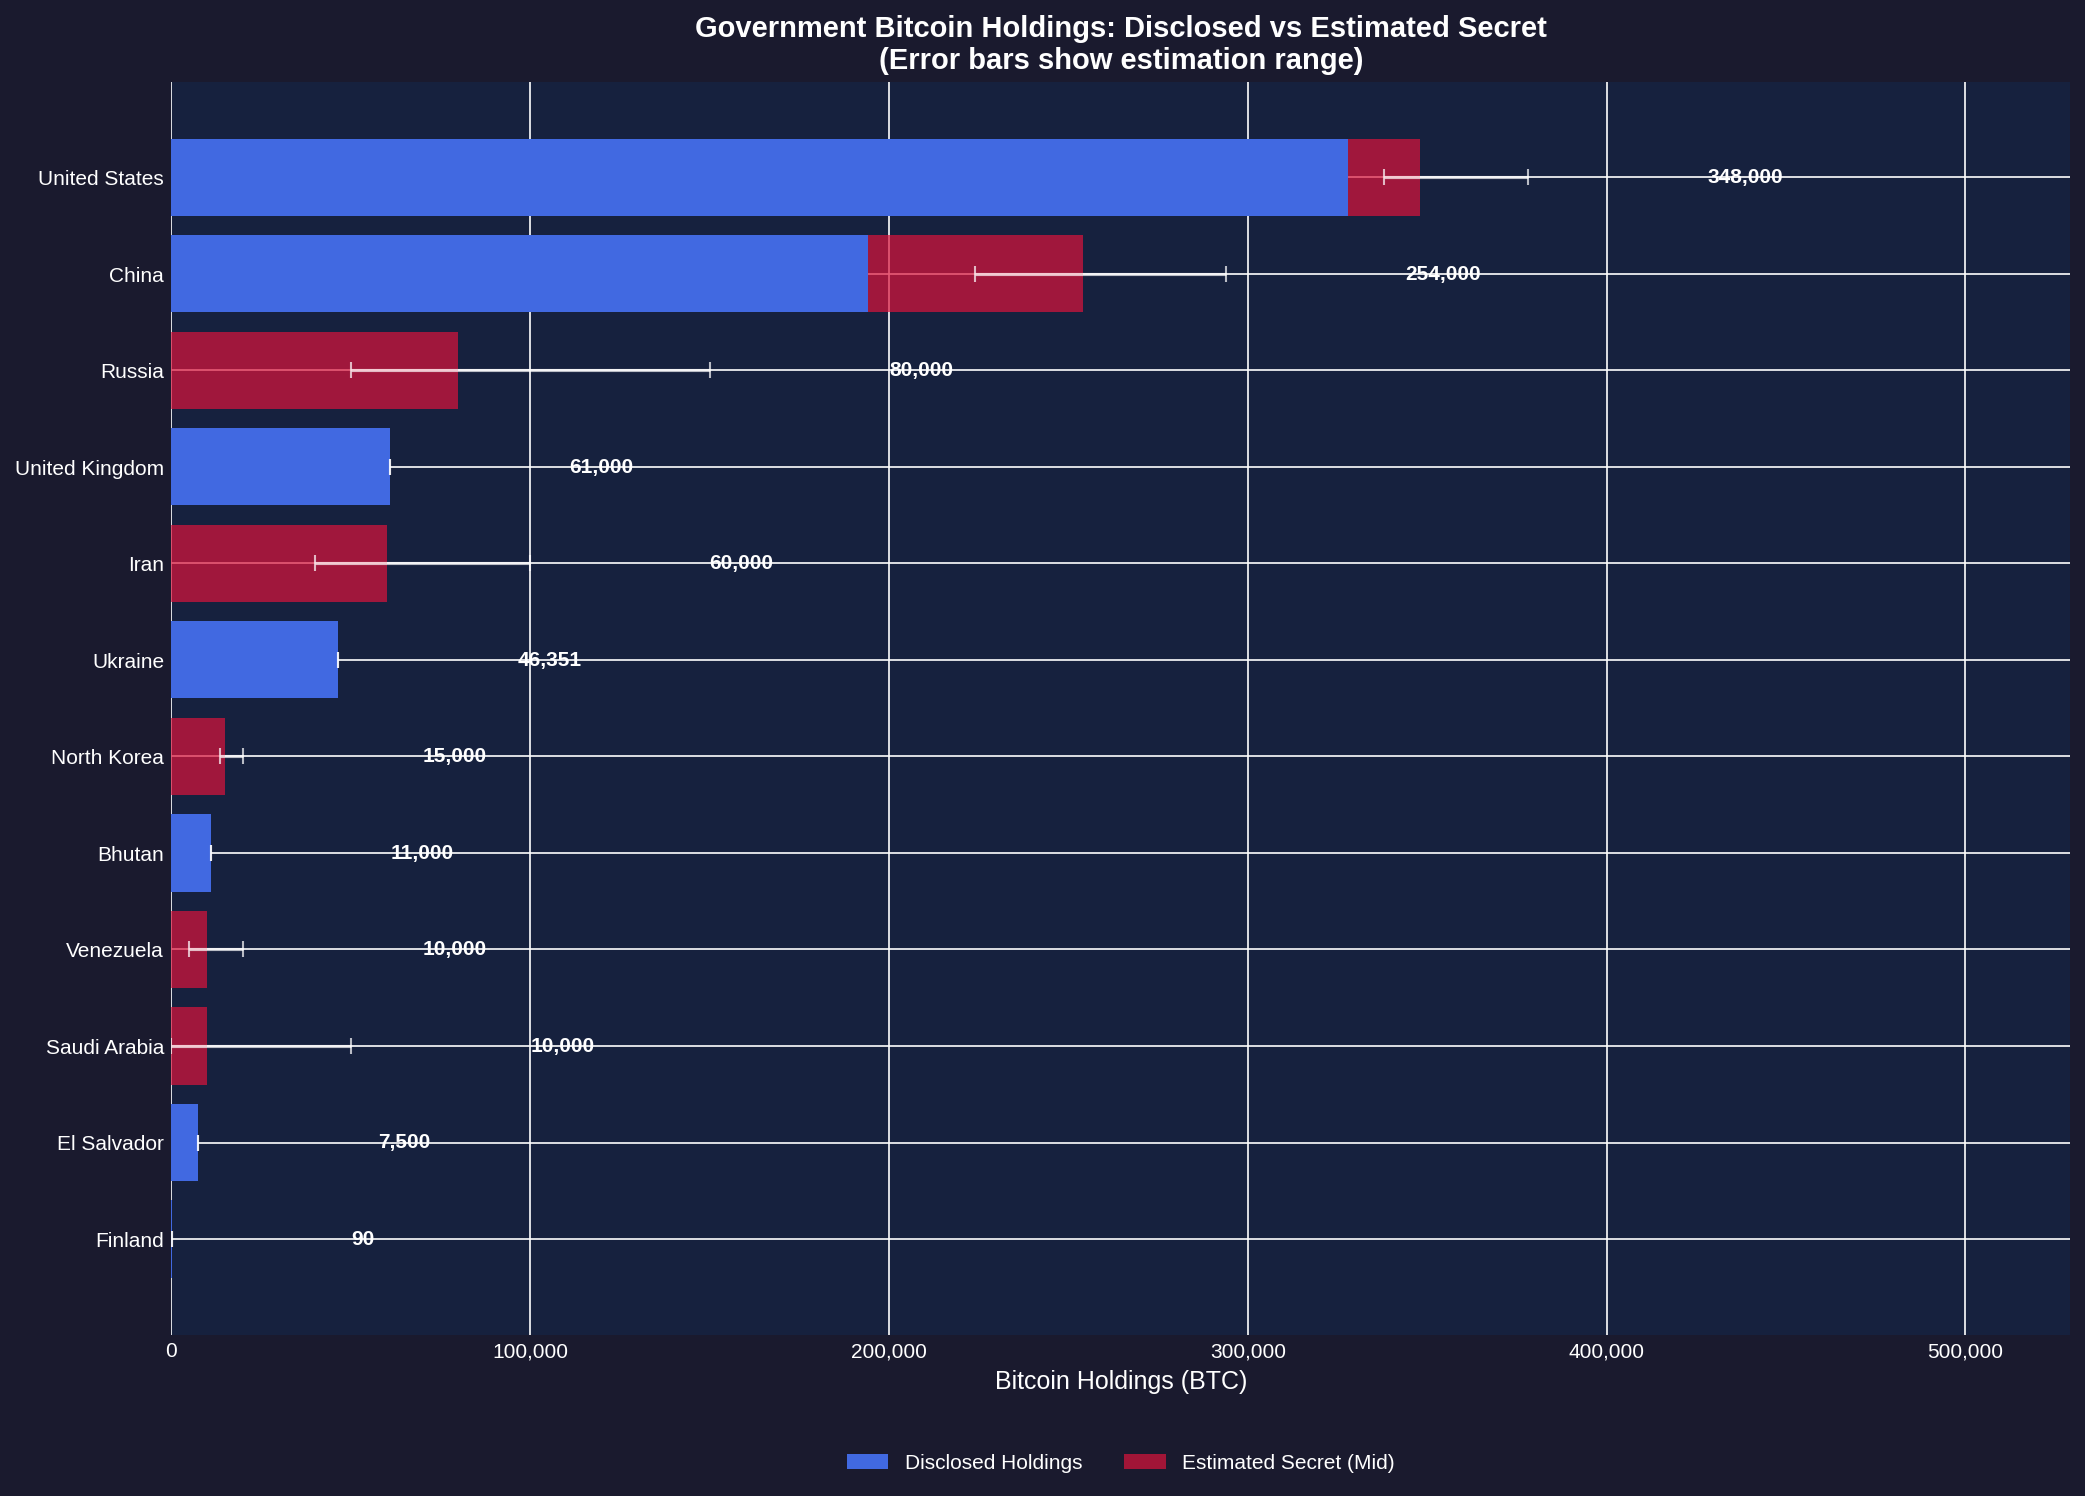
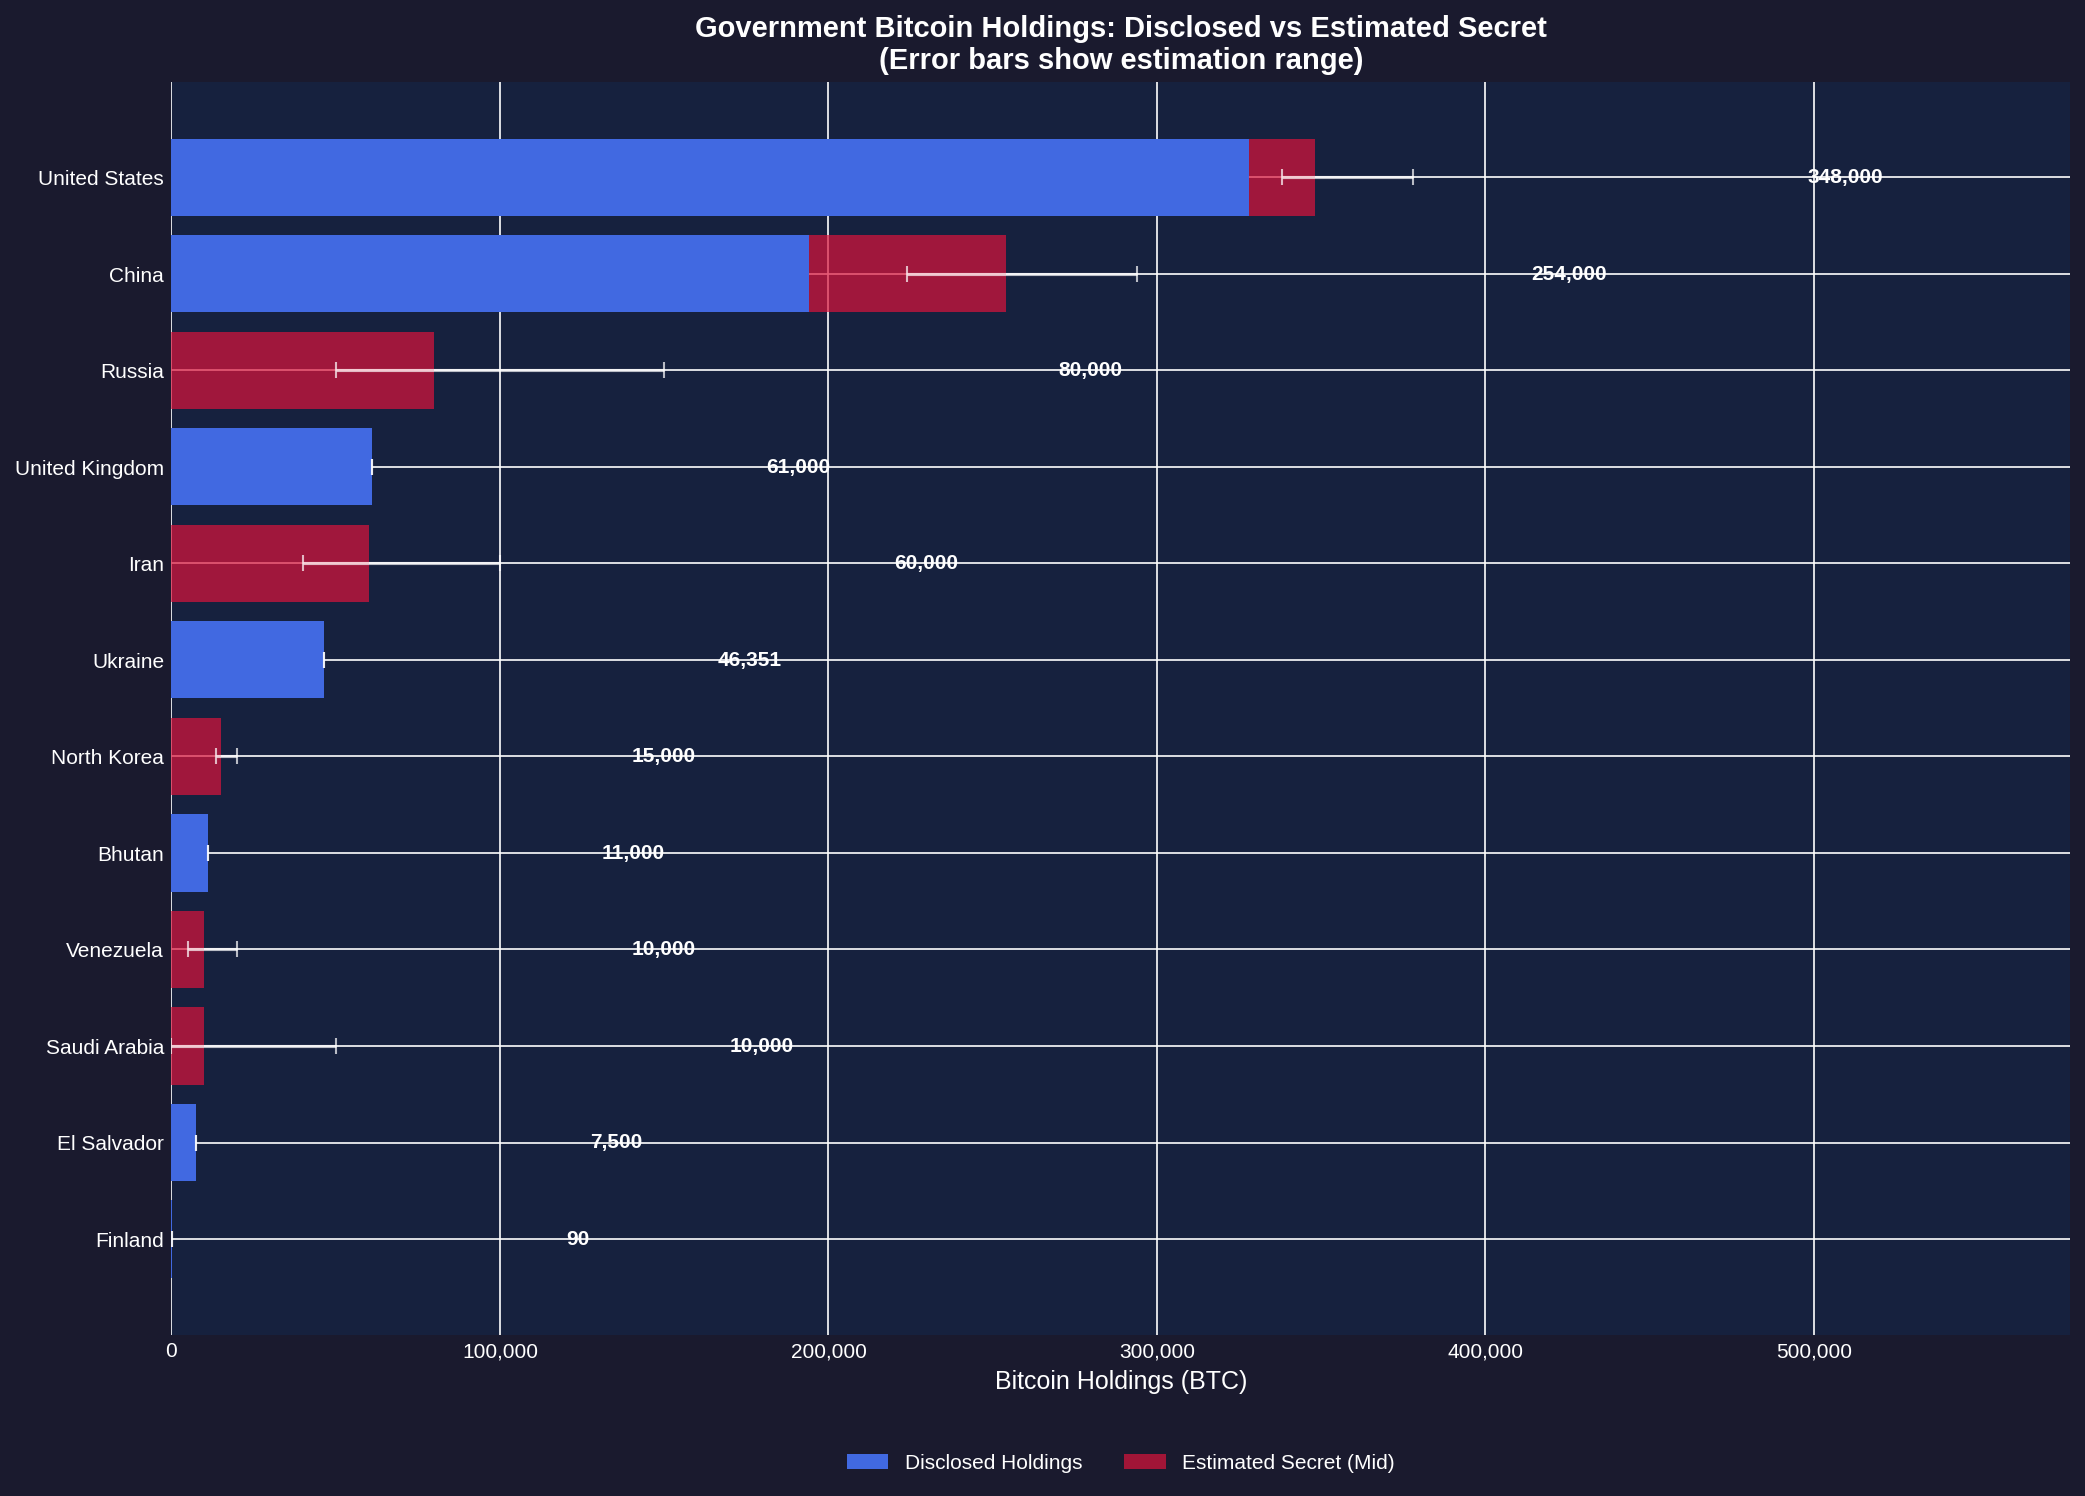
Fix graph label visibility - position labels beyond error bars
- Government holdings: offset increased from +50K to +120K BTC
- X-axis limit: max_total + 200K (fixed offset, not multiplier)
- Labels should now be clearly separated from error bars

https://claude.ai/code/session_01Vh1HuXmVpiFcfU4g9MUR6D

diff --git a/visualizations/generate_visualizations.py b/visualizations/generate_visualizations.py
@@ -237,12 +237,12 @@ def create_government_holdings_chart(government_data):
 
     # Calculate max extent for x-axis limit
     max_total = max([d + h for d, h in zip(disclosed_btc, secret_btc_high)])
-    ax.set_xlim(0, max_total * 1.4)  # Extend x-axis for labels
+    ax.set_xlim(0, max_total + 200000)  # Extend x-axis significantly for labels
 
     # Add value labels - position well beyond error bars
     for i, (d, s, s_high) in enumerate(zip(disclosed_btc, secret_btc_mid, secret_btc_high)):
         total = d + s
-        max_extent = d + s_high + 50000  # Position label well beyond error bar
+        max_extent = d + s_high + 120000  # Position label far beyond error bar
         if total > 0:
             ax.text(max_extent, i, f'{total:,.0f}', va='center', color='white', fontsize=10, fontweight='bold')
 

diff --git a/visualizations/generate_visualizations_bw.py b/visualizations/generate_visualizations_bw.py
@@ -257,12 +257,12 @@ def create_government_holdings_chart(government_data):
 
     # Calculate max extent for x-axis limit
     max_total = max([d + h for d, h in zip(disclosed_btc, secret_btc_high)])
-    ax.set_xlim(0, max_total * 1.4)  # Extend x-axis for labels
+    ax.set_xlim(0, max_total + 200000)  # Extend x-axis significantly for labels
 
     # Calculate max extent including error bars for label positioning
     for i, (d, s, s_high) in enumerate(zip(disclosed_btc, secret_btc_mid, secret_btc_high)):
         total = d + s
-        max_extent = d + s_high + 50000  # Position label well beyond error bar
+        max_extent = d + s_high + 120000  # Position label far beyond error bar
         if total > 0:
             ax.text(max_extent, i, f'{total:,.0f}', va='center', fontsize=10, fontweight='bold')
 
